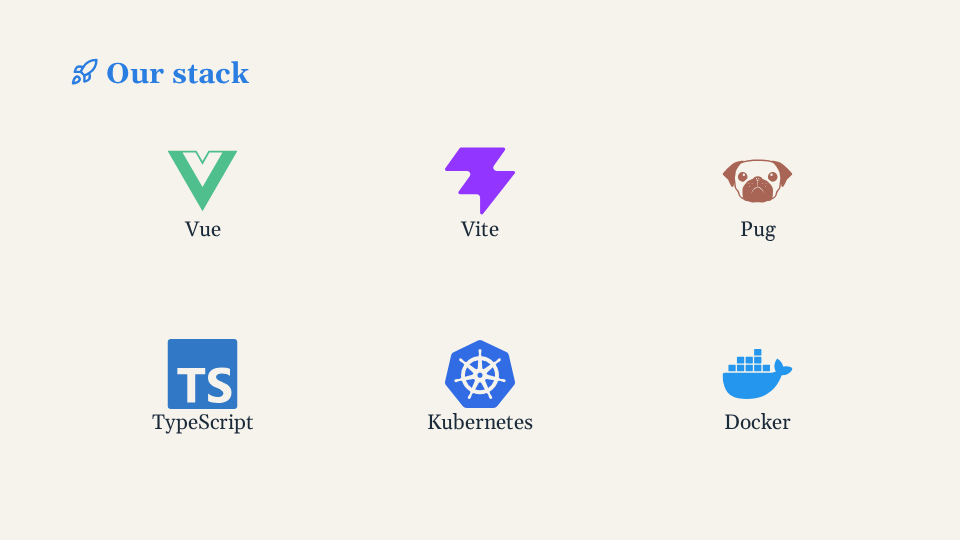
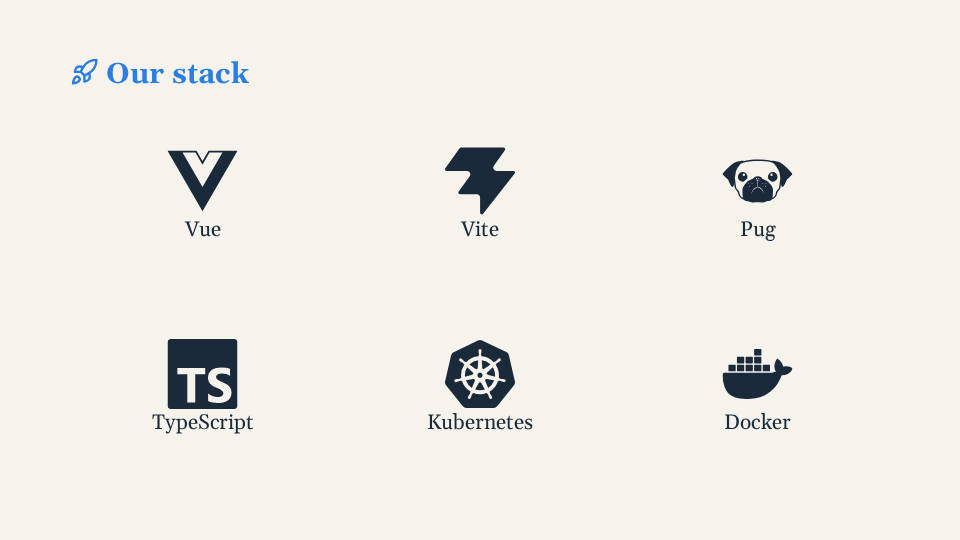
docs: README pictures in English, calmer colours
- The pictures are recorded in an English browser (LOCALE in
  scripts/docs-server.mjs, used by shots and feature-gifs), so the
  presenter view, the list of decks and the jump menu show English.
- Icons by name: the logos take the text's colour, one ink for all
  (icons.vue and the cloud-native-java talk drop their brand hexes).
- Example themes redrawn in restrained palettes from the brand's:
  ocean is navy with a soft sea blue, midnight an ink dark with the
  orange accent and a github-dark-default code window (blue
  highlights), and sunset gives way to sage, a quiet light green.
- The Cies picture at dusk in navy, slate and sand instead of pink and
  purple bands.
- Feature GIFs and shots re-recorded; the guides' example blocks
  refreshed.

Refs #27

diff --git a/docs/examples/icons.vue b/docs/examples/icons.vue
@@ -4,19 +4,18 @@ Deck
     h2 #[Icon(name="lucide:rocket")] Our stack
     Grid(cols="3" gap="sm")
       Center(v-for="(t, i) in tech" :key="t.icon" v-step="i + 1")
-        Icon(:name="t.icon" size="140" :label="t.label" :style="{ color: t.color }")
+        Icon(:name="t.icon" size="140" :label="t.label")
         p {{ t.label }}
 </template>
 
 <script setup>
-// Logos wear their brand's colour, the official hex that simpleicons.org publishes: a logo names
-// a technology, so it keeps the colour it is known by. Anything else takes the theme's tokens.
+// Logos are icons like any other: they take the colour of the text, one ink for all of them.
 const tech = [
-  { icon: 'simple-icons:vuedotjs', label: 'Vue', color: '#4FC08D' },
-  { icon: 'simple-icons:vite', label: 'Vite', color: '#9135FF' },
-  { icon: 'simple-icons:pug', label: 'Pug', color: '#A86454' },
-  { icon: 'simple-icons:typescript', label: 'TypeScript', color: '#3178C6' },
-  { icon: 'simple-icons:kubernetes', label: 'Kubernetes', color: '#326CE5' },
-  { icon: 'simple-icons:docker', label: 'Docker', color: '#2496ED' },
+  { icon: 'simple-icons:vuedotjs', label: 'Vue' },
+  { icon: 'simple-icons:vite', label: 'Vite' },
+  { icon: 'simple-icons:pug', label: 'Pug' },
+  { icon: 'simple-icons:typescript', label: 'TypeScript' },
+  { icon: 'simple-icons:kubernetes', label: 'Kubernetes' },
+  { icon: 'simple-icons:docker', label: 'Docker' },
 ]
 </script>

diff --git a/docs/examples/themes/midnight.css b/docs/examples/themes/midnight.css
@@ -1,18 +1,19 @@
-/* docs/examples/themes/midnight.css: a dark venue, a pink accent and a dark code window */
+/* docs/examples/themes/midnight.css: a dark venue, an orange accent and a dark code window */
 [data-theme="midnight"] {
-  --ar-bg: #15112e;
-  --ar-fg: #eeeaff;
-  --ar-muted: #a49fd0;
-  --ar-accent: #ff5fae;
-  --ar-accent-fg: #15112e;
-  --ar-letterbox: #0a0819;
+  --ar-bg: #11151b;
+  --ar-fg: #e9e6df;
+  --ar-muted: #8e99a6;
+  --ar-accent: #ff6a3d;
+  --ar-accent-fg: #11151b;
+  --ar-letterbox: #0a0d11;
   --ar-font-sans: "Inter", system-ui, sans-serif;
   --ar-title-align: center;
   --ar-radius: 12px;
-  --ar-code-theme: tokyo-night;
-  --ar-code-bg: #1d1940;
-  --ar-code-bar: #29245a;
-  --ar-code-fg: #d6d2ff;
-  --ar-code-muted: #6f6aa6;
-  --ar-code-title: #d6d2ff;
+  --ar-code-theme: github-dark-default;
+  --ar-code-bg: #0d1117;
+  --ar-code-bar: #1b2129;
+  --ar-code-fg: #e6edf3;
+  --ar-code-muted: #6e7681;
+  --ar-code-title: #c9d1d9;
+  --ar-code-hl: #58a6ff;
 }

diff --git a/docs/examples/talks/cloud-native-java.vue b/docs/examples/talks/cloud-native-java.vue
@@ -9,15 +9,14 @@ Deck(:themes="['ocean']")
     h2 The path
     Cols(gap="lg")
       Center(v-for="t in tech" :key="t.icon")
-        Icon(:name="t.icon" size="140" :label="t.label" :style="{ color: t.color }")
+        Icon(:name="t.icon" size="140" :label="t.label")
         p {{ t.label }}
 </template>
 
 <script setup>
-// brand colours for logos (simpleicons.org): see docs/examples/icons.vue
 const tech = [
-  { icon: 'simple-icons:springboot', label: 'Spring Boot', color: '#6DB33F' },
-  { icon: 'simple-icons:docker', label: 'Docker', color: '#2496ED' },
-  { icon: 'simple-icons:kubernetes', label: 'Kubernetes', color: '#326CE5' },
+  { icon: 'simple-icons:springboot', label: 'Spring Boot' },
+  { icon: 'simple-icons:docker', label: 'Docker' },
+  { icon: 'simple-icons:kubernetes', label: 'Kubernetes' },
 ]
 </script>

diff --git a/docs/examples/themes/ocean.css b/docs/examples/themes/ocean.css
@@ -1,11 +1,11 @@
 /* docs/examples/themes/ocean.css: a theme declares only the tokens it changes */
 [data-theme="ocean"] {
-  --ar-bg: #0b1f2a;
-  --ar-fg: #e6f1f5;
-  --ar-muted: #8fb3c2;
-  --ar-accent: #4fd1c5;
-  --ar-accent-fg: #0b1f2a;
-  --ar-letterbox: #06141b;
+  --ar-bg: #1b2a3a;
+  --ar-fg: #edf1f4;
+  --ar-muted: #9aabbb;
+  --ar-accent: #6aaee8;
+  --ar-accent-fg: #1b2a3a;
+  --ar-letterbox: #111c27;
   --ar-font-sans: "Inter", system-ui, sans-serif;
   --ar-title-align: center;
   --ar-footer-color: var(--ar-accent);

diff --git a/docs/examples/themes/sage.css b/docs/examples/themes/sage.css
@@ -1,0 +1,14 @@
+/* docs/examples/themes/sage.css: a light, quiet venue */
+[data-theme="sage"] {
+  --ar-bg: #f1f3ee;
+  --ar-fg: #1f2b25;
+  --ar-muted: #65716a;
+  --ar-accent: #3d7a5b;
+  --ar-accent-fg: #f1f3ee;
+  --ar-letterbox: #1f2b25;
+  --ar-font-sans: "Inter", system-ui, sans-serif;
+  --ar-radius: 18px;
+  --ar-code-theme: github-light;
+  --ar-code-bg: #fbfcfa;
+  --ar-code-bar: #e1e6de;
+}

diff --git a/docs/examples/theme.vue b/docs/examples/theme.vue
@@ -1,5 +1,5 @@
 <template lang="pug">
-Deck(:themes="['ocean', 'sunset', 'midnight', 'default']")
+Deck(:themes="['ocean', 'sage', 'midnight', 'default']")
   template(#footer="{ number, total }")
     span ACME · DevConf 2026
     span {{ number }} / {{ total }}

diff --git a/docs/examples/talks/design-tokens.vue b/docs/examples/talks/design-tokens.vue
@@ -1,5 +1,5 @@
 <template lang="pug">
-Deck(:themes="['sunset']")
+Deck(:themes="['sage']")
   Slide(layout="cover")
     .bar
     h1 Design tokens, for real

diff --git a/docs/guide/icons.md b/docs/guide/icons.md
@@ -15,20 +15,19 @@ Deck
     h2 #[Icon(name="lucide:rocket")] Our stack
     Grid(cols="3" gap="sm")
       Center(v-for="(t, i) in tech" :key="t.icon" v-step="i + 1")
-        Icon(:name="t.icon" size="140" :label="t.label" :style="{ color: t.color }")
+        Icon(:name="t.icon" size="140" :label="t.label")
         p {{ t.label }}
 </template>
 
 <script setup>
-// Logos wear their brand's colour, the official hex that simpleicons.org publishes: a logo names
-// a technology, so it keeps the colour it is known by. Anything else takes the theme's tokens.
+// Logos are icons like any other: they take the colour of the text, one ink for all of them.
 const tech = [
-  { icon: 'simple-icons:vuedotjs', label: 'Vue', color: '#4FC08D' },
-  { icon: 'simple-icons:vite', label: 'Vite', color: '#9135FF' },
-  { icon: 'simple-icons:pug', label: 'Pug', color: '#A86454' },
-  { icon: 'simple-icons:typescript', label: 'TypeScript', color: '#3178C6' },
-  { icon: 'simple-icons:kubernetes', label: 'Kubernetes', color: '#326CE5' },
-  { icon: 'simple-icons:docker', label: 'Docker', color: '#2496ED' },
+  { icon: 'simple-icons:vuedotjs', label: 'Vue' },
+  { icon: 'simple-icons:vite', label: 'Vite' },
+  { icon: 'simple-icons:pug', label: 'Pug' },
+  { icon: 'simple-icons:typescript', label: 'TypeScript' },
+  { icon: 'simple-icons:kubernetes', label: 'Kubernetes' },
+  { icon: 'simple-icons:docker', label: 'Docker' },
 ]
 </script>
 ```

diff --git a/docs/guide/themes.md b/docs/guide/themes.md
@@ -12,12 +12,12 @@ in a slides project, `src/themes/ocean.css`), with a deck that wears it:
 ```css
 /* docs/examples/themes/ocean.css: a theme declares only the tokens it changes */
 [data-theme="ocean"] {
-  --ar-bg: #0b1f2a;
-  --ar-fg: #e6f1f5;
-  --ar-muted: #8fb3c2;
-  --ar-accent: #4fd1c5;
-  --ar-accent-fg: #0b1f2a;
-  --ar-letterbox: #06141b;
+  --ar-bg: #1b2a3a;
+  --ar-fg: #edf1f4;
+  --ar-muted: #9aabbb;
+  --ar-accent: #6aaee8;
+  --ar-accent-fg: #1b2a3a;
+  --ar-letterbox: #111c27;
   --ar-font-sans: "Inter", system-ui, sans-serif;
   --ar-title-align: center;
   --ar-footer-color: var(--ar-accent);
@@ -30,7 +30,7 @@ in a slides project, `src/themes/ocean.css`), with a deck that wears it:
 
 ```vue
 <template lang="pug">
-Deck(:themes="['ocean', 'sunset', 'midnight', 'default']")
+Deck(:themes="['ocean', 'sage', 'midnight', 'default']")
   template(#footer="{ number, total }")
     span ACME · DevConf 2026
     span {{ number }} / {{ total }}

diff --git a/README.md b/README.md
@@ -142,7 +142,7 @@ step lights up its own lines or words.
 <td width="400"><img src="docs/assets/features/code.gif" alt="A Vue code window: one line highlighted, then two words" width="380" /></td>
 </tr>
 <tr>
-<td width="400"><img src="docs/assets/features/icons.png" alt="The Vue, Vite, Pug, TypeScript, Kubernetes and Docker logos in their colours" width="380" /></td>
+<td width="400"><img src="docs/assets/features/icons.png" alt="The Vue, Vite, Pug, TypeScript, Kubernetes and Docker logos, in one ink colour" width="380" /></td>
 <td width="340">
 
 **Icons by name**
